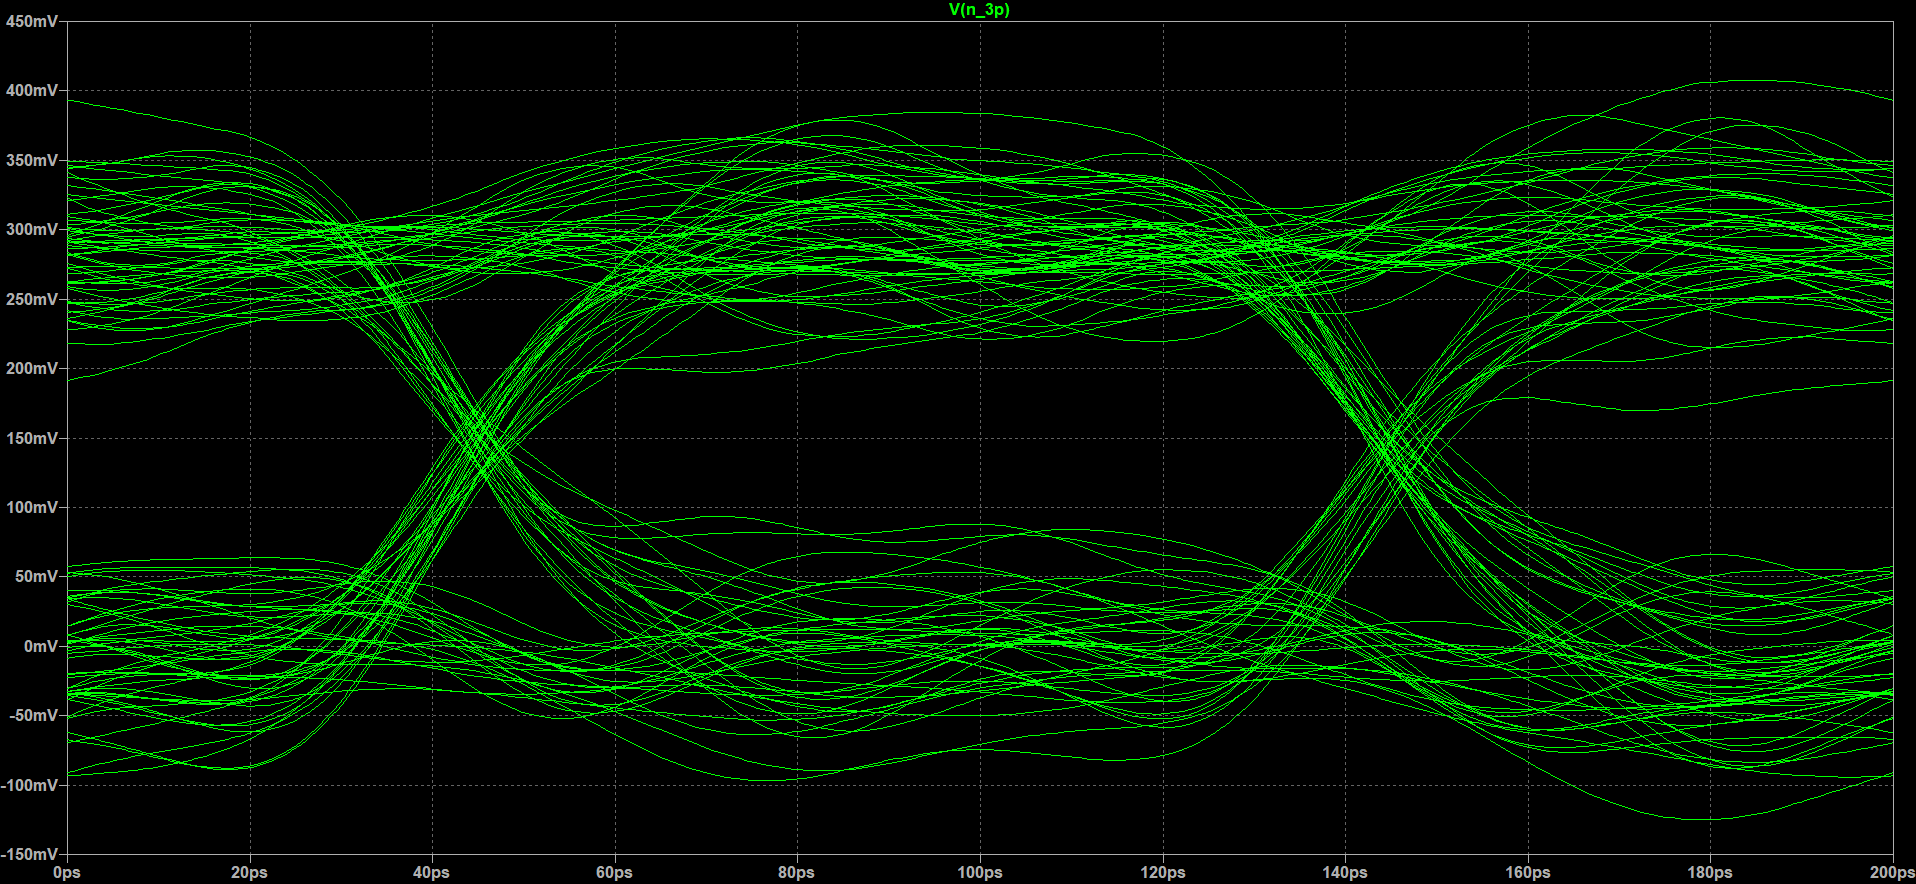
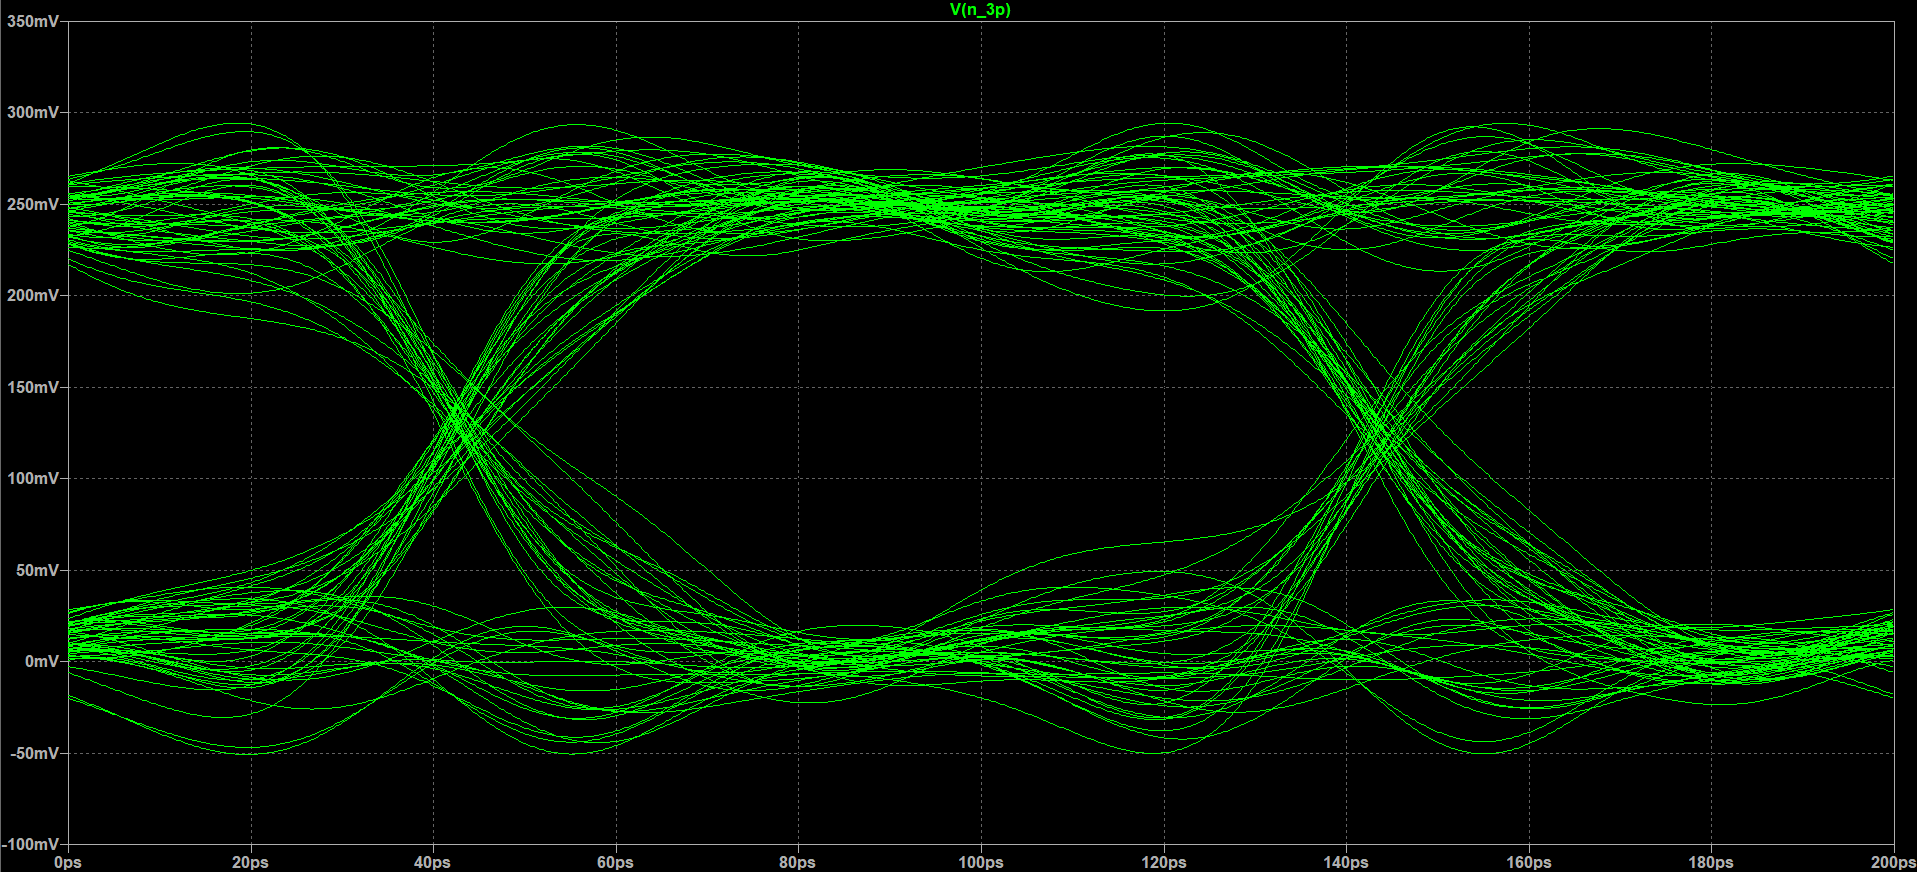
Update FFE Diagram 10G

diff --git a/topology_2/FFE_10G.m b/topology_2/FFE_10G.m
@@ -1,32 +1,32 @@
 format long e
 
-bits = [-1.13043e-008; -2.39409e-005; 0.363646; 0.027235; 0.0343059; -0.0542583; 0.0273995];
-y = [0; 0; 1; 0; 0; 0; 0];
+x = [-1.13043e-008; -2.39409e-005; 0.363646; 0.027235; 0.0343059; -0.0542583; 0.0273995];
+y = [0; 0; 1; 0; 0; 0; 0; 0; 0; 0; 0; 0; 0];
 
 A = zeros(13,7);
 
 for i=1:7
-    A(i:(i+6),i) = bits;
+    A(i:(i+6),i) = x;
 end
 
-A=A';
-c = A\y;
-c = c./(sum(abs(c)))
-
+c = A\y
+c_n = c./(sum(abs(c)))
+y_approx = A*c
+y_approx_n = A*c_n
 
 f = linspace(1e3,40e9, 1e3);
 C_f = zeros(1,length(f));
 Tb = 0.1e-9;
 
-for i=3:9
-    n = i-5;
-    C_f = C_f + c(i)*exp(-1i*2*pi*f*Tb*n);
-end
-
-semilogx(f, 20*log10(abs(C_f)))
-hold on
-grid minor
-title('FIR filter frequency response')
-xlabel('frequency (Hz)')
-ylabel('Magnitude (dB)')
-xlim([1e3, 40e9])
+% for i=3:9
+%     n = i-5;
+%     C_f = C_f + c(i)*exp(-1i*2*pi*f*Tb*n);
+% end
+% 
+% semilogx(f, 20*log10(abs(C_f)))
+% hold on
+% grid minor
+% title('FIR filter frequency response')
+% xlabel('frequency (Hz)')
+% ylabel('Magnitude (dB)')
+% xlim([1e3, 40e9])
